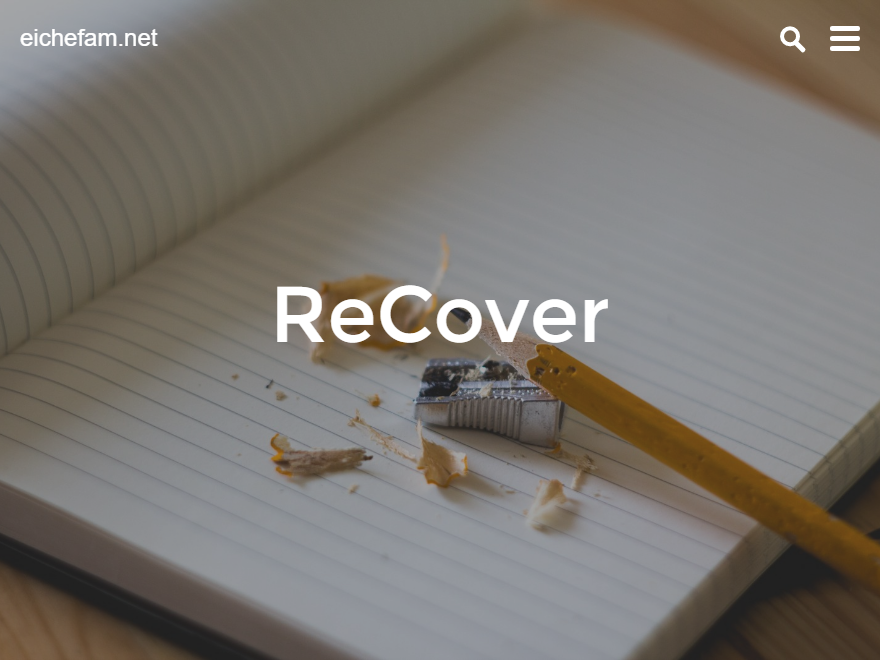
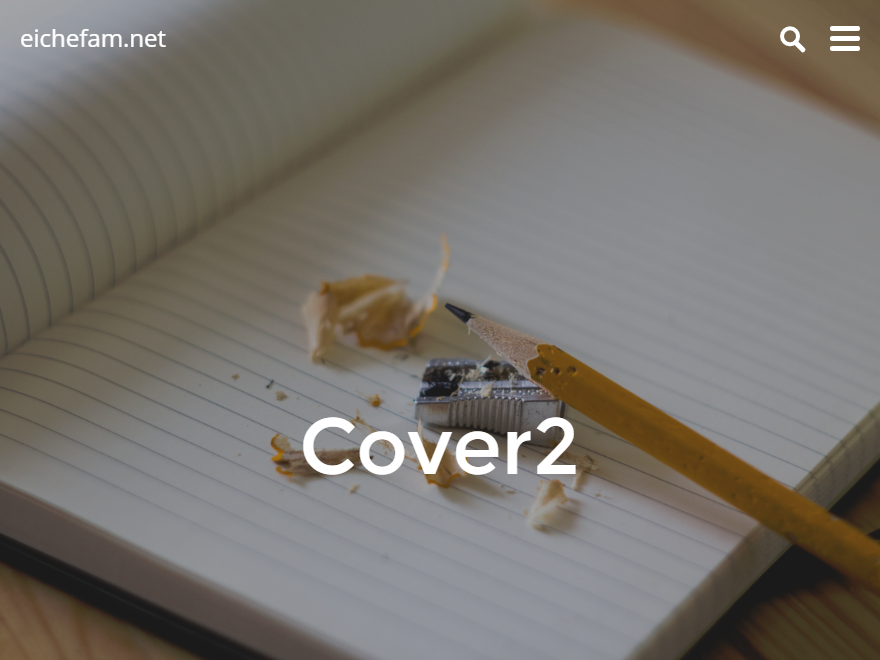
Fixed screenshot.

Changed region(s): [[0.3375, 0.6364, 0.675, 0.7273], [0.3068, 0.4242, 0.7057, 0.5455], [0.0307, 0.0303, 0.1841, 0.0909]]

diff --git a/assets/stylesheets/style.scss b/assets/stylesheets/style.scss
@@ -4,7 +4,7 @@ Theme URI: http://eichefam.net/projects/cover2
 Author: Paul Eiche
 Author URI: https://eichefam.net
 Description: A content-driven blogging theme for WordPress.
-Version: 1.0.0
+Version: 1.0.1
 License: GNU General Public License v2 or later
 License URI: http://www.gnu.org/licenses/gpl-2.0.html
 Text Domain: cover2

diff --git a/CHANGELOG.md b/CHANGELOG.md
@@ -2,5 +2,8 @@
 
 All notable changes to this project will be documented in this file. This project adheres to [Semantic Versioning](http://semver.org/).
 
-**1.0 - 12/29/2016**
+**1.0.1 - 1/20/2017**
+- Fixed screenshot.
+
+**1.0 - 1/20/2017**
 - Initial release.
